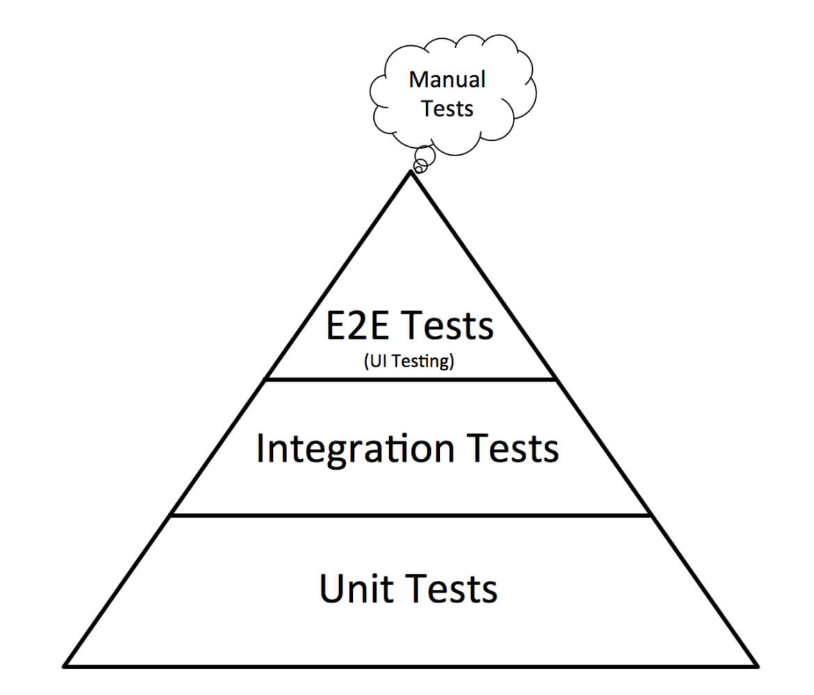
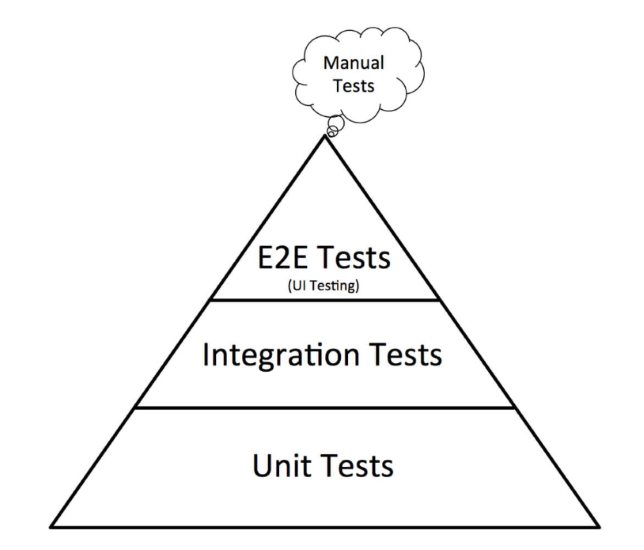
resize piramide testing

diff --git a/slides/index.html b/slides/index.html
@@ -79,6 +79,7 @@
           href="https://docs.google.com/document/d/1VbhRSj-J_MqlMB-kLJJua0wqKt905J8H0s6JKbUiE6k/edit?usp=sharing">
           Guía de Trabajos Prácticos 2025
         </a>
+        <br />
         <a class="practico" href="https://docs.google.com/document/d/1kshladtOu1VUWsoAw-S_mw03kIyq28Tyv56mvzKLQos/edit?tab=t.0#heading=h.pdp9wsykfu56">Enunciado 2025 - Sistemas de Gym</a>
       </div>
       <!-- Seccion 1 -->

diff --git a/slides/proyecto.md b/slides/proyecto.md
@@ -124,6 +124,27 @@ El grupo será de **3** o **4** personas.
 
 ---
 
+![Estructura del Proyecto](images/proyecto/estructura-carpetas.png)
+
+---
+
+La estructura del proyecto está dividida en dos grandes partes: **backend** y **frontend**. 
+El cliente (frontend) y el servidor (backend) están desacoplados, lo que mejora la mantenibilidad y escalabilidad del proyecto.
+
+---
+
+## Backend
+
+- **clients:** Estan definidos los clientes que consumen servicios externos, como APIs de terceros, bases de datos no relacionales, servicios de autenticación, etc.
+- **controllers:** Contiene los controladores HTTP que reciben las peticiones del cliente, llaman a los servicios correspondientes y devuelven respuestas. Es el punto de entrada del backend a cada funcionalidad.
+- **dao (Data Access Object):** Maneja el acceso a la base de datos. Se encarga de hacer queries y mapear datos entre el modelo del dominio y las tablas o documentos en la base de datos.
+- **domain:** Define las entidades del negocio (modelos) y sus reglas. Esta capa representa el núcleo del dominio del sistema.
+- **services:** Contiene la lógica de negocio. Los servicios implementan las operaciones definidas por el dominio y son llamados desde los controladores.
+- **utils:** Funciones utilitarias o helpers que son reutilizables y no pertenecen específicamente a ninguna capa.
+- **main.go** Punto de entrada de la aplicación Go. Se configura el servidor HTTP, se inicializan los routers, se cargan los servicios, etc.
+
+---
+
 ## ¿Dudas, Preguntas, Comentarios?
 
 ![Preguntas](images/pregunta.gif)
